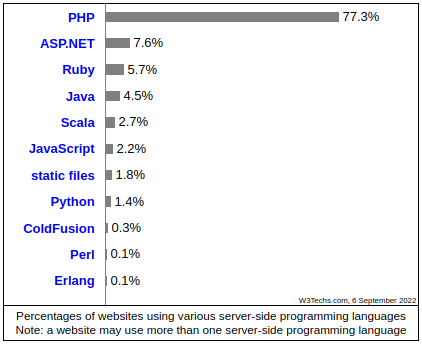
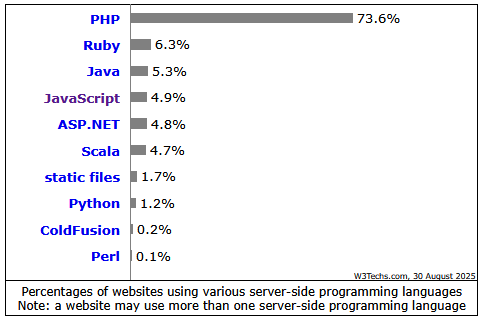
Mise à jour cours 1

Changed region(s): [[0.0, 0.0, 1.0, 1.0]]

diff --git a/_layouts/slideshow.html b/_layouts/slideshow.html
@@ -11,7 +11,7 @@ plugins: ['highlight', 'slideshow']
 
       <div id="slides-license" style="display: none">
 	<p></p>
-          <p><a href="https://github.com/romainlebreton">Romain Lebreton</a>, Fabien Laguillaumie, Isaac Lluís, Cyrille Nadal et Petru Valicov
+          <p><a href="https://github.com/mgasquet">Malo Gasquet</a>, Hugo Jacob, <a href="https://github.com/romainlebreton">Romain Lebreton</a>, Fabien Laguillaumie et <a href="https://github.com/cnadal">Cyrille Nadal</a>
 	  {{ site.time | date:"%Y" }},<br/> Distribué avec une licence
 	  <a rel="license"
 	     href="https://creativecommons.org/licenses/by-sa/4.0/">CC-BY-SA

diff --git a/classes/class1.md b/classes/class1.md
@@ -259,15 +259,15 @@ Il est souvent associé au port 80 de la machine hôte.
 
 **Utilisation du serveur Web Docker :**
 
-* Déposer vos fichiers HTML/CSS/PHP dans le dossier `public_html` .
+* Déposer vos fichiers HTML/CSS/PHP dans le dossier `public_html`.
 * Quand vous demandez la page  
 [http://localhost/index.html](https://localhost/index.html),  
 le serveur HTTP Docker va rechercher le fichier  
-`/home/lebreton/public_html/index.html`.
+`C:\Users\Gasquet\WebA2\public_html\index.html`.
 * Idem la page  
 [http://localhost/image/topsecret.jpg](http://localhost/image/topsecret.jpg)  
 renvoie sur le fichier  
-`/home/lebreton/image/topsecret.jpg`.
+`C:\Users\Gasquet\WebA2\public_html\topsecret.jpg`.
 
 
 </section>
@@ -286,14 +286,14 @@ Dans le dossier `public_html` de votre répertoire personnel **à l'IUT** à l'a
 
 <br>
 
-**Utilisation du serveur Web Docker :**
+**Utilisation du serveur Web de l'IUT :**
 
 * Quand vous demandez la page  
 [https://webinfo.iutmontp.univ-montp2.fr/~rletud/index.html](https://webinfo.iutmontp.univ-montp2.fr/~rletud/index.html),  
 le serveur HTTP (Apache) de l'IUT va rechercher le fichier  
 `/home/ann2/rletud/public_html/index.html`.
 * Idem la page  
-[https://webinfo.iutmontp.univ-montp2.fr/~rletud/image/topsecret.jpg](https://webinfo.iutmontp.univ-montp2.fr/~rletud/image/topsecret.jpg)  
+[https://webinfo.iutmontp.univ-montp2.fr/~rletud/image/topsecret.jpg](https://webinfo.iutmontp.univ-montp2.fr/~rletud/image/topsecret.jpg)
 renvoie sur le fichier  
 `/home/ann2/rletud/public_html/image/topsecret.jpg`.
 
@@ -615,7 +615,7 @@ Deux principales façons d'exécuter un script PHP:
 
 En pratique sur un exemple :
 
-* On écrit le fichier `/home/lebreton/public_html/bonjour.php` : <!-- `/home/ann2/public_html/bonjour.php` -->
+* On écrit le fichier `C:\Users\Gasquet\WebA2\public_html\bonjour.php` : <!-- `/home/ann2/public_html/bonjour.php` -->
 
   ```php
   <!DOCTYPE html>
